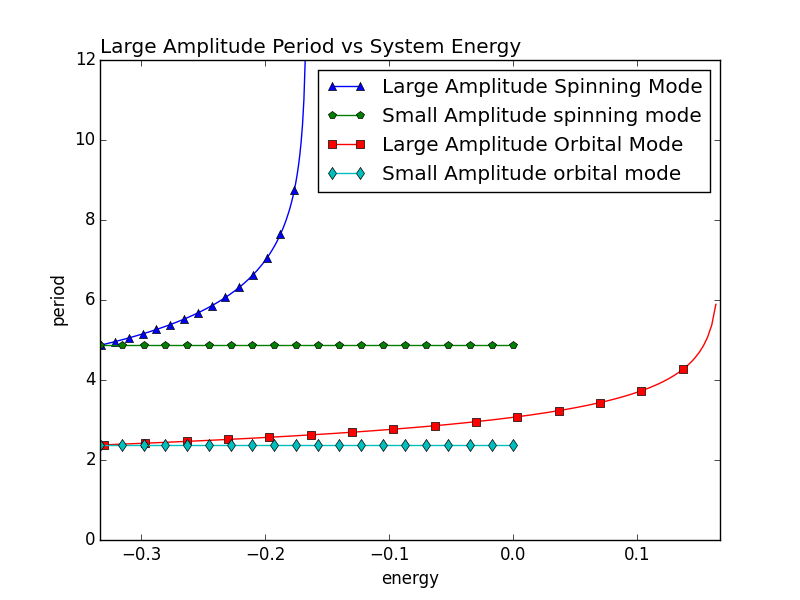
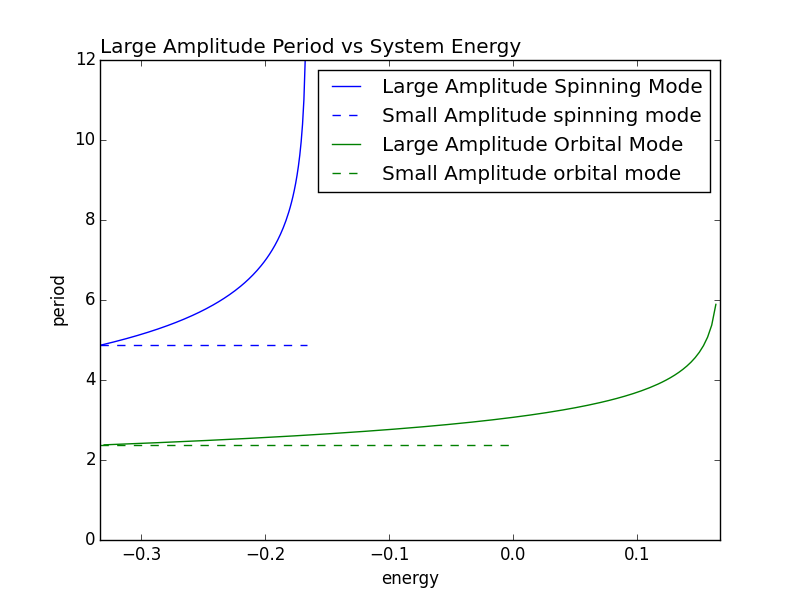
made limiting value dashed

diff --git a/numerical_work/orbital_period_plotter.py b/numerical_work/orbital_period_plotter.py
@@ -25,12 +25,12 @@ def plot_period_vs_energy():
     sig_vals = utils.read_column(data_spinning, 1)
     E_vals = utils.read_column(data_spinning, 2)
     pyplot.plot(E_vals, p_vals,
-        marker='^', markevery=10,
+
         label='Large Amplitude Spinning Mode')
     T_s = numpy.pi*2*(5./3.)**(-.5)
-    E_vals = numpy.linspace(-1./3., 0., 20)
+    E_vals = numpy.linspace(-1./3., -1/6., 20)
     ones = numpy.ones(20)
-    pyplot.plot(E_vals, T_s*ones, marker='p', label='Small Amplitude spinning mode')
+    pyplot.plot(E_vals, T_s*ones, 'b--', label='Small Amplitude spinning mode')
     #plot orbital periods
     data_orbital = parse_file('./clean_orbital_periods.txt')
     p_vals = utils.read_column(data_orbital, 0)
@@ -38,11 +38,9 @@ def plot_period_vs_energy():
     E_vals = utils.read_column(data_orbital, 2)
     p2_vals = map(lambda x: x*2, p_vals)
     pyplot.plot(E_vals, p_vals
-        , marker='s', markevery=10,
+        ,
         label='Large Amplitude Orbital Mode')
     # pyplot.plot(E_vals, p2_vals)
-    # pyplot.errorbar(E_vals, p_vals, yerr= sig_vals)
-    # pyplot.errorbar(E_vals, p_vals, yerr= sig_vals)
 
     # plot pendulum periods
     # E_p_vals_spin = spin_periods()
@@ -52,7 +50,7 @@ def plot_period_vs_energy():
     T_o = numpy.pi*2*(7.)**(-.5)
     E_vals = numpy.linspace(-1./3., 0., 20)
     ones = numpy.ones(20)
-    pyplot.plot(E_vals, T_o*ones, marker='d', label='Small Amplitude orbital mode')
+    pyplot.plot(E_vals, T_o*ones, 'g--',label='Small Amplitude orbital mode')
     pyplot.xlabel('energy')
     pyplot.ylabel('period')
     pyplot.ylim(0, 12)
